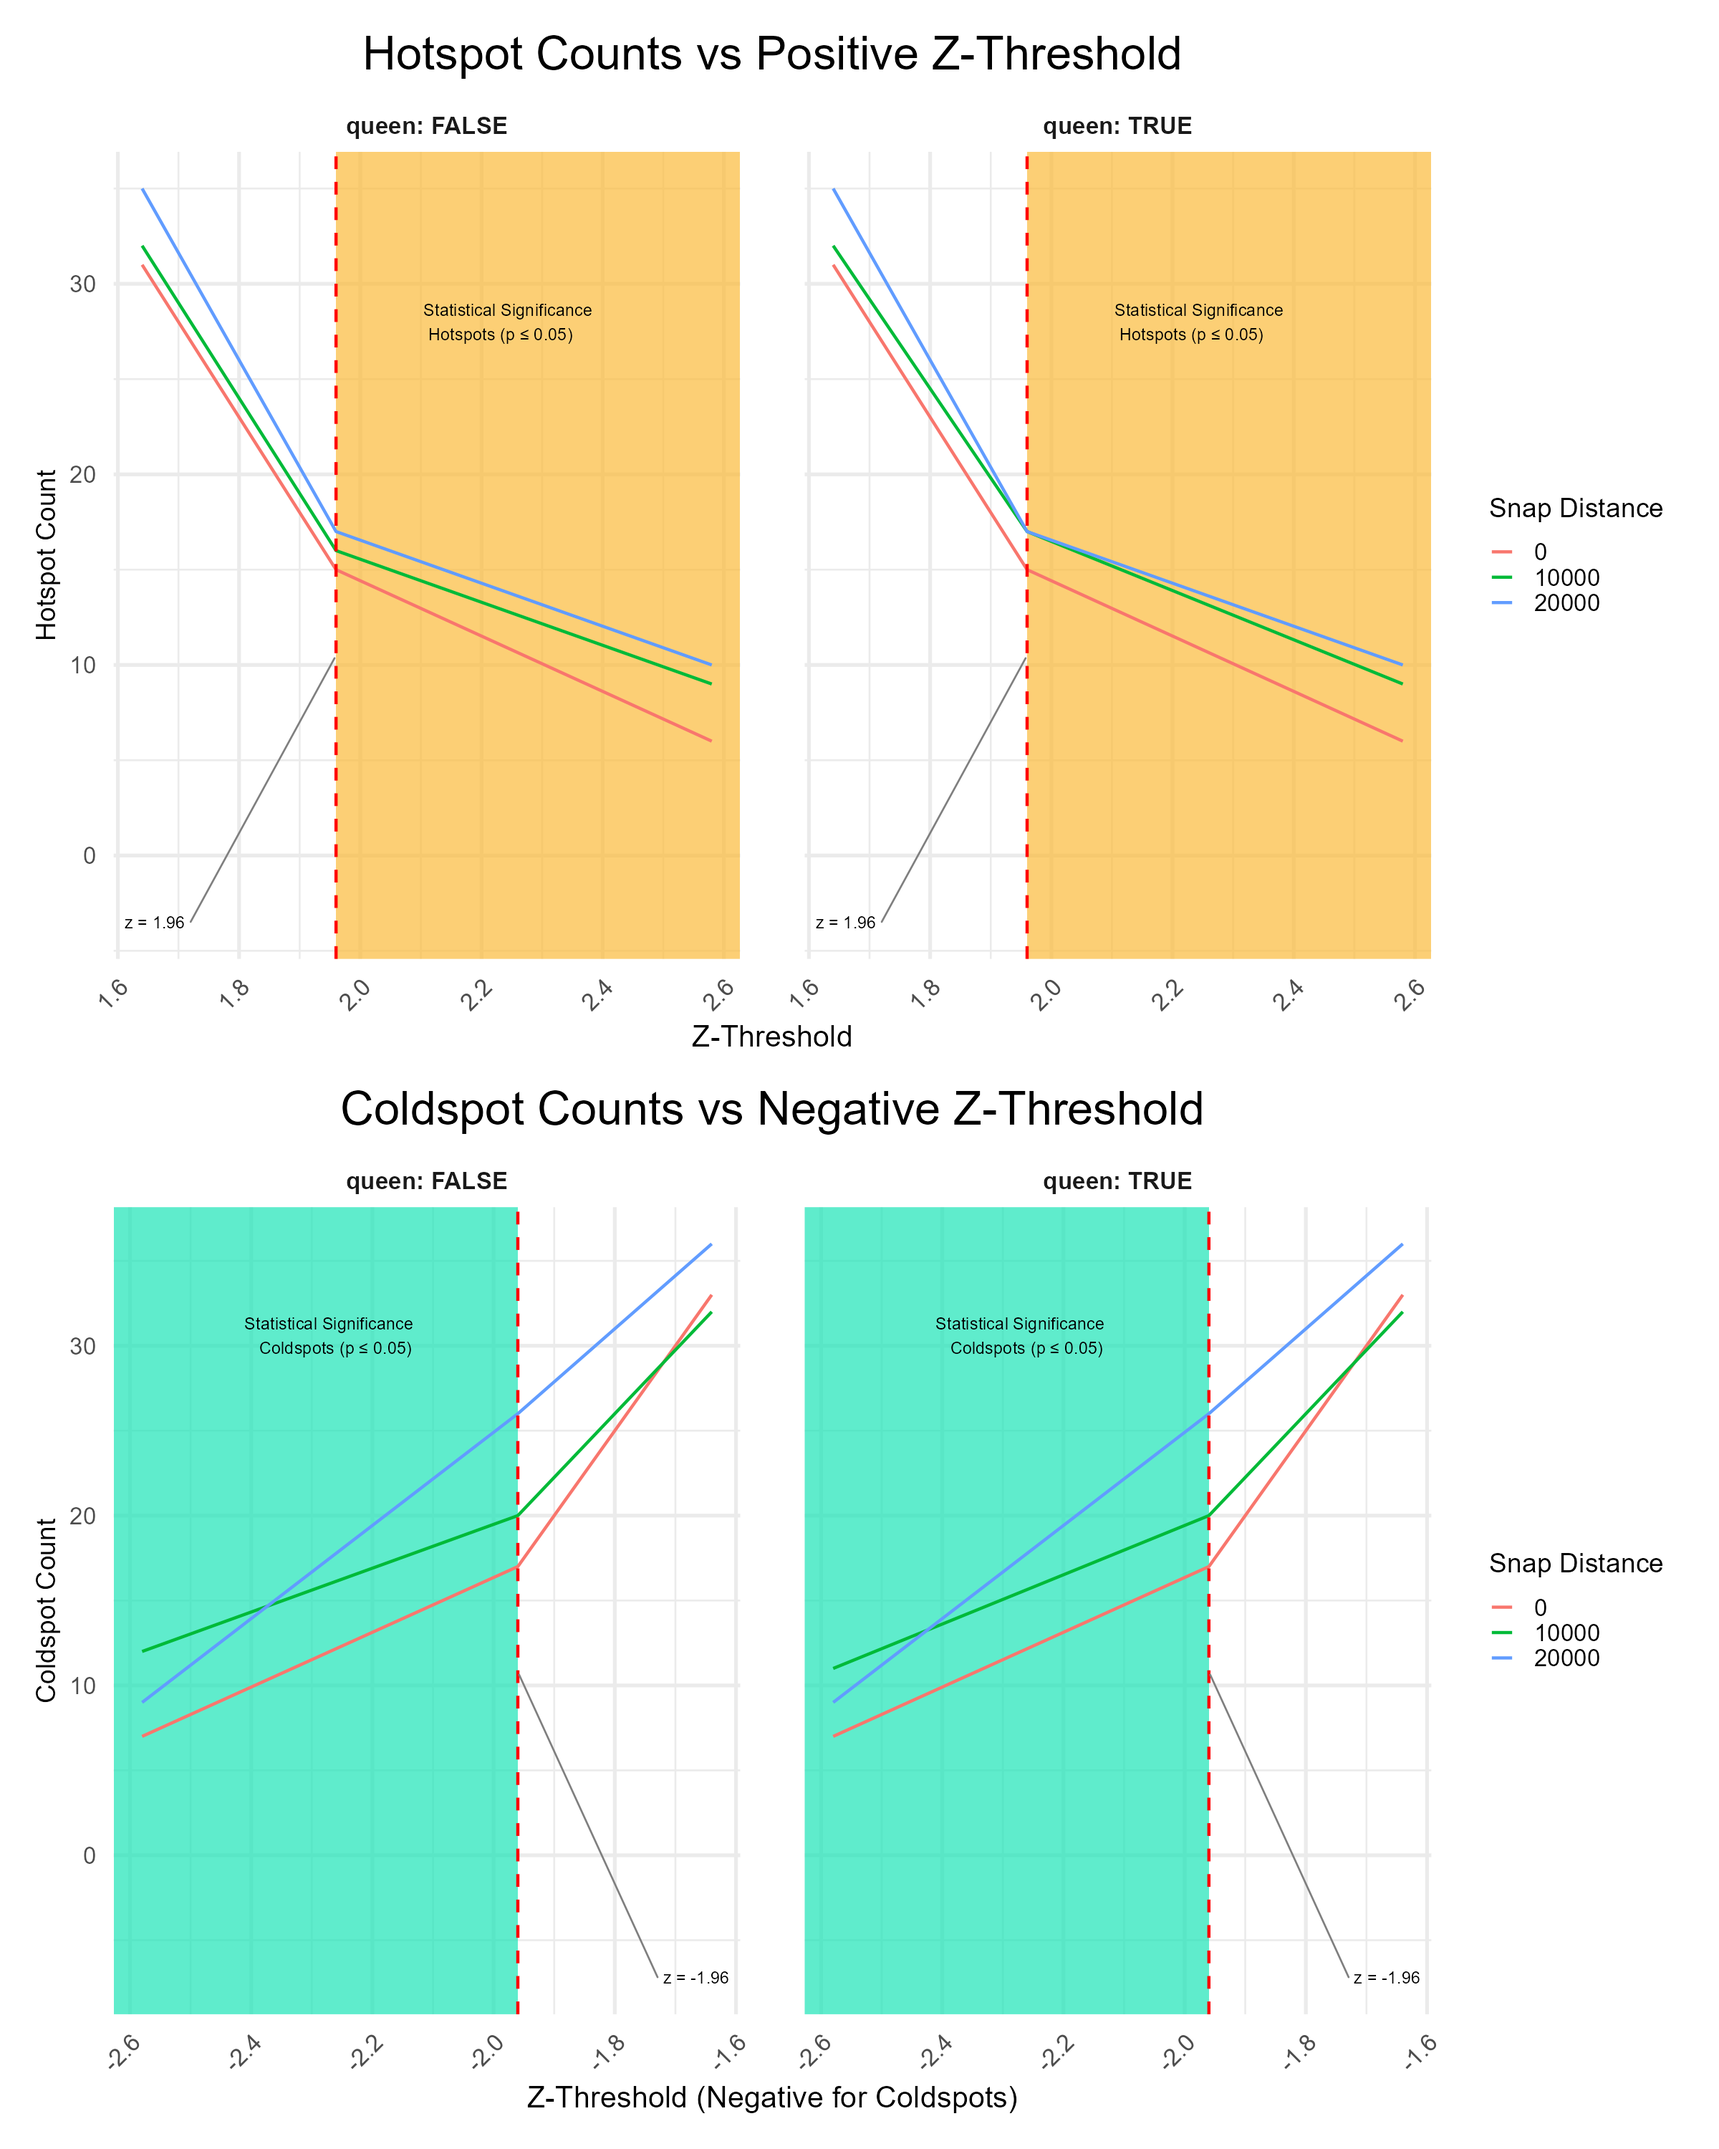
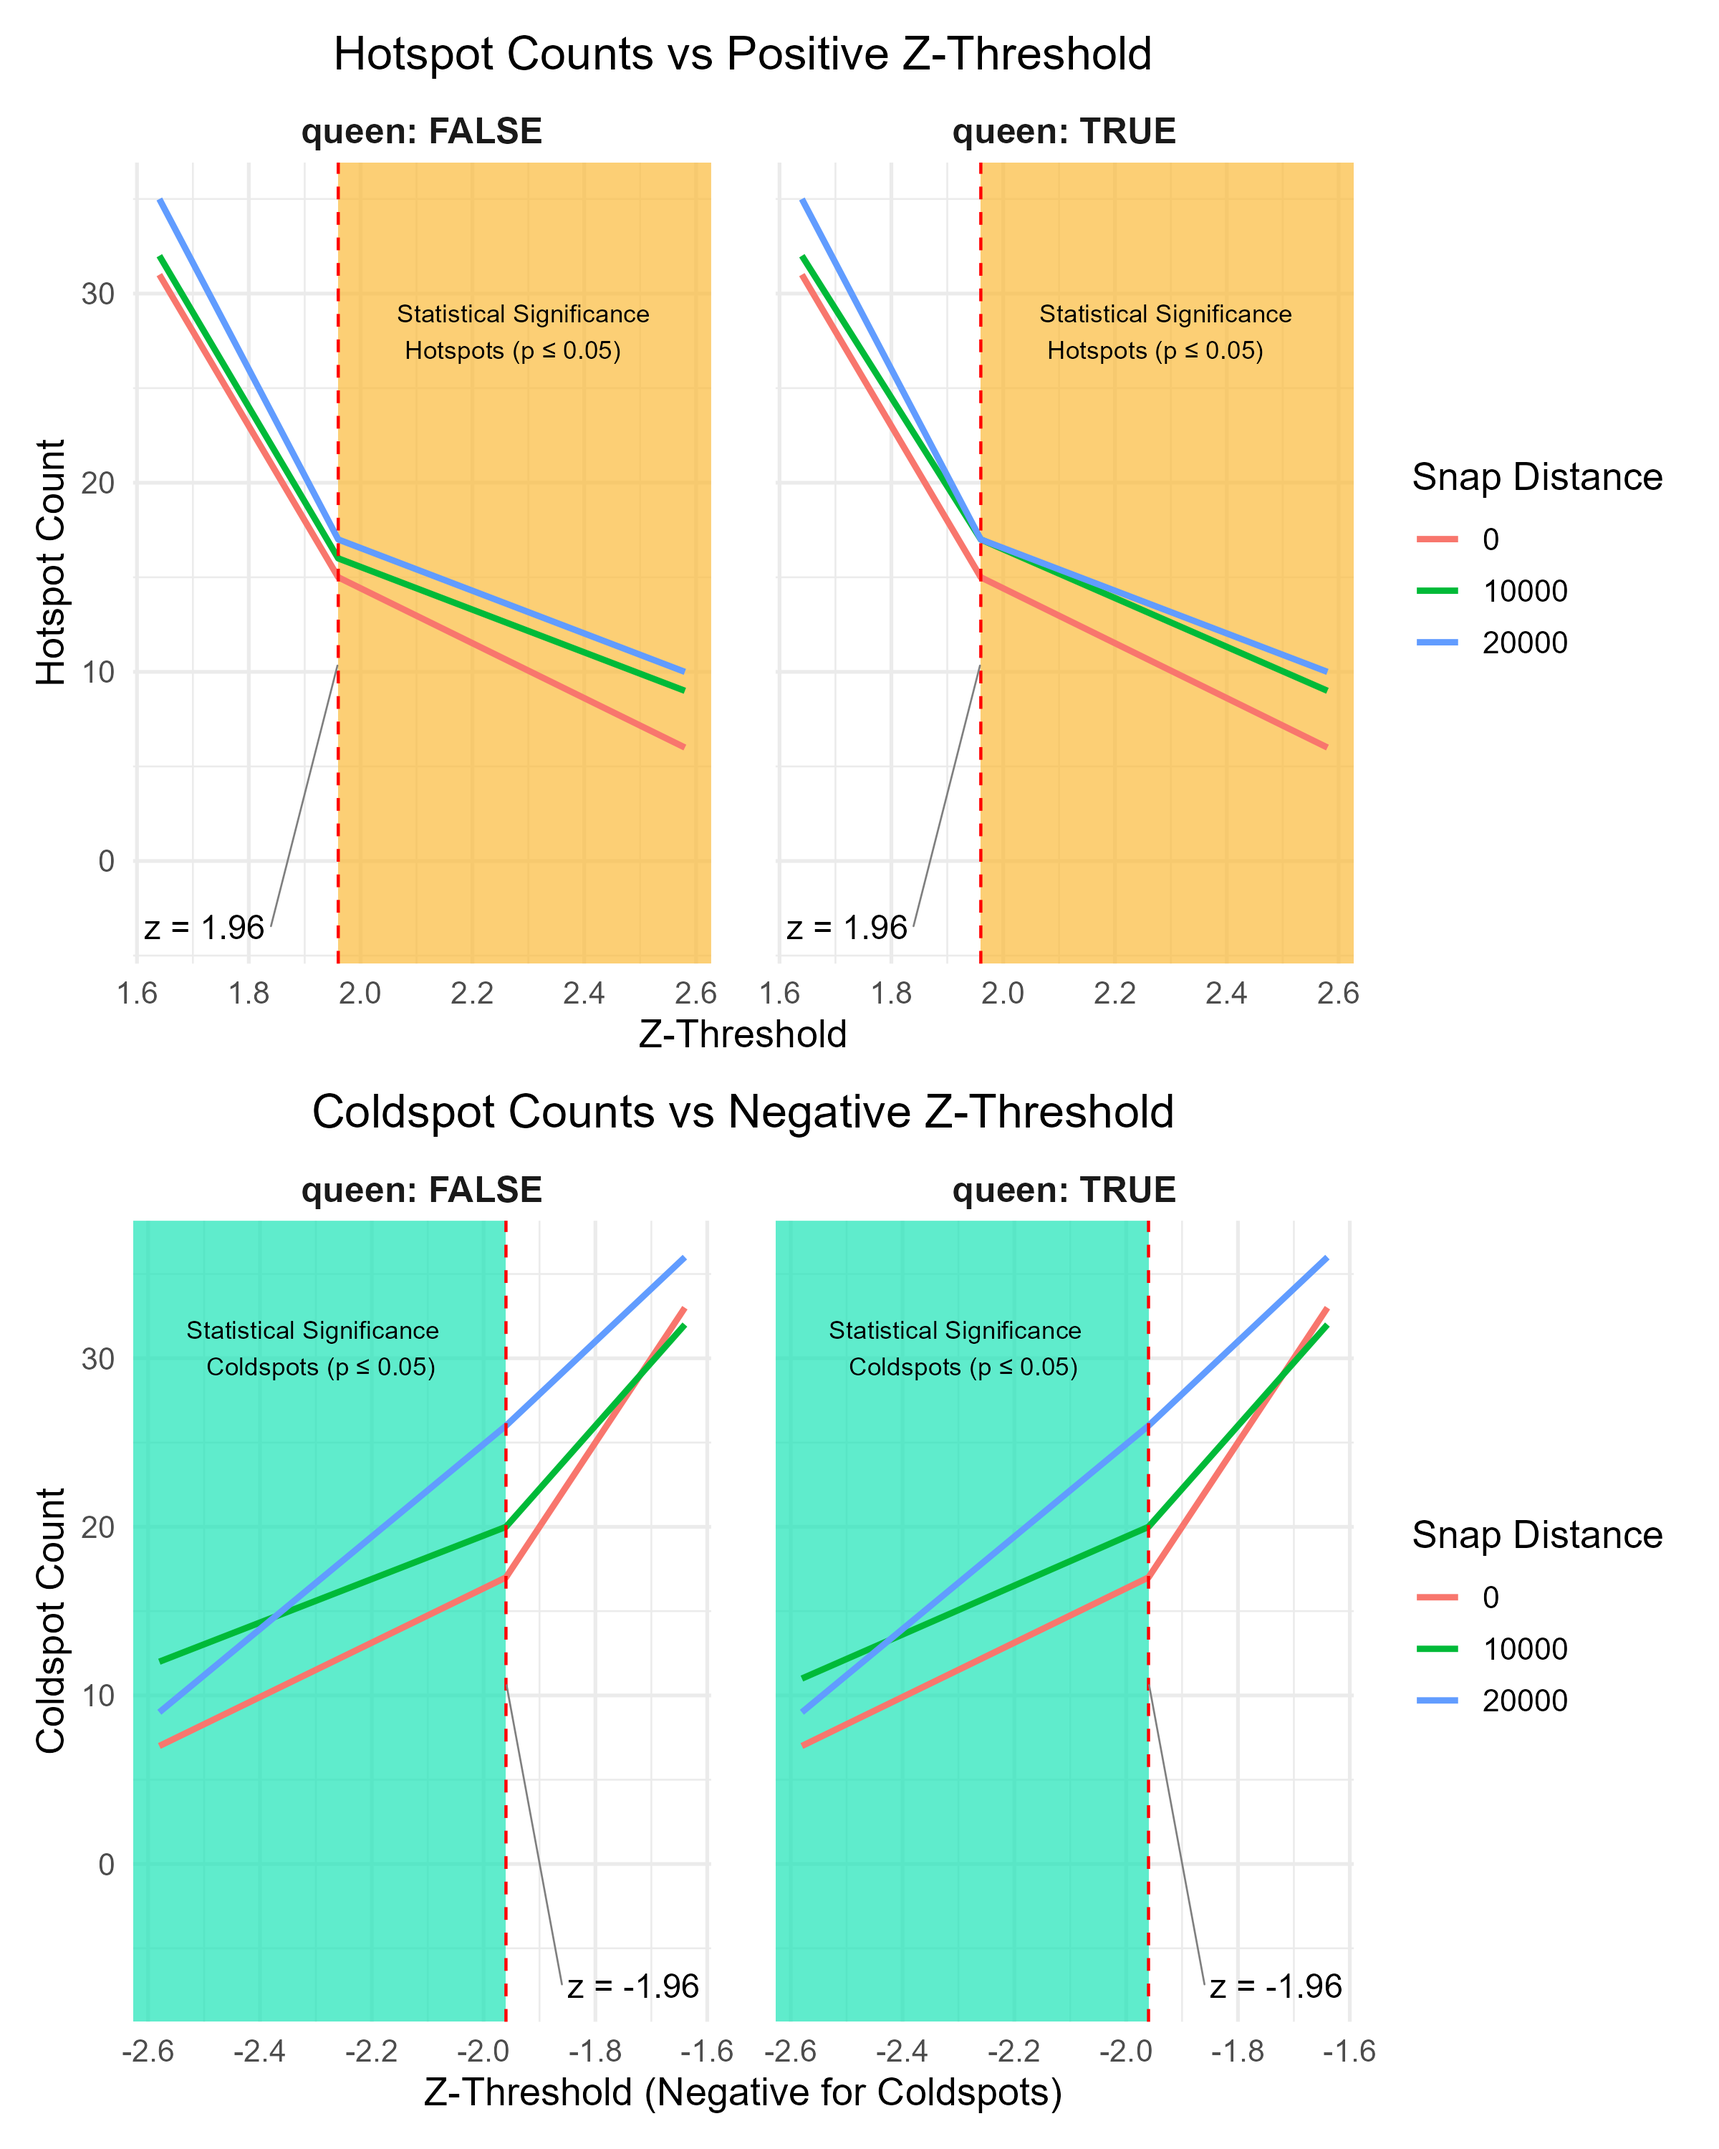
I think we're done!

diff --git a/docs/index.html b/docs/index.html
@@ -180,6 +180,7 @@ pre > code.sourceCode > span > a:first-child::before { text-decoration: underlin
   <li><a href="#approach-1" id="toc-approach-1" class="nav-link" data-scroll-target="#approach-1">Approach</a></li>
   <li><a href="#analysis-1" id="toc-analysis-1" class="nav-link" data-scroll-target="#analysis-1">Analysis</a></li>
   <li><a href="#discussion-1" id="toc-discussion-1" class="nav-link" data-scroll-target="#discussion-1">Discussion</a></li>
+  <li><a href="#video-link" id="toc-video-link" class="nav-link" data-scroll-target="#video-link">Video Link</a></li>
   </ul></li>
   </ul>
 </nav>
@@ -1073,8 +1074,21 @@ A .gif animation showing hot/cold spot analysis for hyperparamter sweep of ‘Sn
 <p>The choropleth map of Getis-Ord G* clusters reveals that year-over-year changes in plumbing insecurity are not randomly distributed across U.S. counties but are instead spatially patterned. Statistically significant hotspots—areas where plumbing access worsened—were most concentrated in New Jersey, Louisiana, and Michigan, while coldspots—areas of improvement—were primarily found in Virginia and Ohio. These patterns likely reflect regional differences in infrastructure funding, policy implementation, or socioeconomic vulnerability.</p>
 <p>To evaluate how spatial model parameters interacted with the data’s topology, a hyperparameter sweep was performed across three variables: contiguity type (Queen vs.&nbsp;Rook), snap distance, and z-score threshold. Among these, snap distance had the most substantial impact on the clustering results. A 20,000-meter threshold produced coherent clusters without overfitting, while higher distances led to overly broad neighborhood definitions and reduced spatial precision. The Queen contiguity setting—capturing both shared edges and corners—was used, but contiguity type had minimal influence on output quality. The z-score threshold of ±1.96 (p ≤ 0.05) effectively distinguished statistically significant clusters.</p>
 <p>These findings demonstrate that significant clusters of change in plumbing insecurity do exist and are geographically meaningful—but only when spatial model parameters are carefully tuned. The hyperparameter sweep, akin to methods used in machine learning, revealed that snap distance was the most influential factor in detecting these patterns. When set too high, the model effectively overfit, diluting meaningful local trends by merging unrelated counties into large, unrealistic neighborhoods. By selecting an optimal 20 km threshold, we improved model interpretability and spatial resolution without compromising statistical validity. This outcome highlights the value of treating spatial analysis with the same rigor applied in machine learning workflows—where thoughtful parameter tuning is essential to uncovering accurate and actionable insights.</p>
+</section>
+<section id="video-link" class="level3">
+<h3 class="anchored" data-anchor-id="video-link">Video Link</h3>
+<section id="watch-the-presentation" class="level4">
+<h4 class="anchored" data-anchor-id="watch-the-presentation">Watch the presentation?</h4>
+<div style="text-align: center; margin-top: 1em;">
+<a href="https://arizona.hosted.panopto.com/Panopto/Pages/Viewer.aspx?id=c1deeff3-49aa-488e-8fa5-b30f0100e035" target="_blank" style="text-decoration: none;"> <img src="images/water_drop_2.png" alt="Watch Video" style="width: 300px; border-radius: 12px; box-shadow: 0 4px 12px rgba(0, 0, 0, 0.2); transition: transform 0.2s;">
+<div style="margin-top: 0.5em; font-weight: bold; color: #2c3e50;">
+Watch Video
+</div>
+</a><p><a href="https://arizona.hosted.panopto.com/Panopto/Pages/Viewer.aspx?id=c1deeff3-49aa-488e-8fa5-b30f0100e035" target="_blank" style="text-decoration: none;"></a></p>
+</div>
 
 
+</section>
 </section>
 </section>
 

diff --git a/docs/about.html b/docs/about.html
@@ -150,12 +150,10 @@ ul.task-list li input[type="checkbox"] {
 </header>
 
 
-<p>This project was developed by <strong>[Team Name]</strong> For <a href="https://datavizaz.org/">INFO 526 - Data Analysis and Visualization</a> at the University of Arizona, taught by Dr.&nbsp;Greg Chism. The team is comprised of the following team members.</p>
+<p>This project was developed by <strong>The Data Plumbers</strong> for <a href="https://datavizaz.org/">INFO 526 - Data Analysis and Visualization</a> at the University of Arizona, taught by Dr.&nbsp;Greg Chism. The team is comprised of the following team members.</p>
 <ul>
-<li><p>Team member 1: One sentence description of Team member 1 (e.g., year, major, etc.).</p></li>
-<li><p>Team member 2: One sentence description of Team member 2 (e.g., year, major, etc.).</p></li>
-<li><p>Team member 3: One sentence description of Team member 3 (e.g., year, major, etc.).</p></li>
-<li><p>Team member 4: One sentence description of Team member 4 (e.g., year, major, etc.).</p></li>
+<li><strong>Team member 1</strong>: Yashi Mi. First year MS Student in Data Science.</li>
+<li><strong>Team member 2</strong>: Nathan Herling. First year MS Student in Data Science.</li>
 </ul>
 
 

diff --git a/docs/presentation.html b/docs/presentation.html
@@ -424,6 +424,7 @@ From <strong>0</strong> to <strong>20,000</strong> [m]
 </div>
 
 
+
 </section>
     </div>
   <div class="quarto-auto-generated-content" style="display: none;">

diff --git a/data/README.md b/data/README.md
@@ -1,15 +1,24 @@
 # Data
--   **[Dataset]**: Description of the dataset 
+- **Dataset**: This project uses two datasets from the **American Community Survey (ACS)** 5-Year Estimates, accessed via the **TidyTuesday** project dated **2025-01-28**. These datasets contain county-level data on indoor plumbing access across the U.S. for the years **2022** and **2023**. The data allow for analysis of water insecurity through the lens of plumbing access, population demographics, and geographic patterns. The data were originally compiled by the U.S. Census Bureau and visualized by the USGS Vizlab team.
 
-# Codebook for [chosen] Dataset
+# Codebook for Water Insecurity Dataset (`water_insecurity_2022` and `water_insecurity_2023`)
 
 ## Variable Names and Descriptions:
 
--   **variable**: Description
+- **`geoid`**: Unique identifier for the county (FIPS code)
+- **`name`**: County name
+- **`year`**: The year of the ACS estimate (2022 or 2023)
+- **`geometry`**: County boundary geometry as an `sf` object (used for mapping)
+- **`total_pop`**: Total population of the county
+- **`plumbing`**: Number of households without complete indoor plumbing
+- **`percent_lacking_plumbing`**: Percentage of the population lacking complete plumbing facilities
 
 ## Data Types:
 
--   **Column**: data type
-
-
-
+- **`geoid`**: `character`
+- **`name`**: `character`
+- **`year`**: `numeric`
+- **`geometry`**: `sf / geometry`
+- **`total_pop`**: `numeric`
+- **`plumbing`**: `numeric`
+- **`percent_lacking_plumbing`**: `numeric`

diff --git a/README.md b/README.md
@@ -5,3 +5,7 @@ Final Project repo for INFO 526 - Summer 2025.
 
 #### Disclosure:
 Derived from the original course by Mine Çetinkaya-Rundel @ Duke University
+
+### Video Link
+[![Watch Video](images/water_drop_2.png.png)](https://arizona.hosted.panopto.com/Panopto/Pages/Viewer.aspx?id=c1deeff3-49aa-488e-8fa5-b30f0100e035)
+
